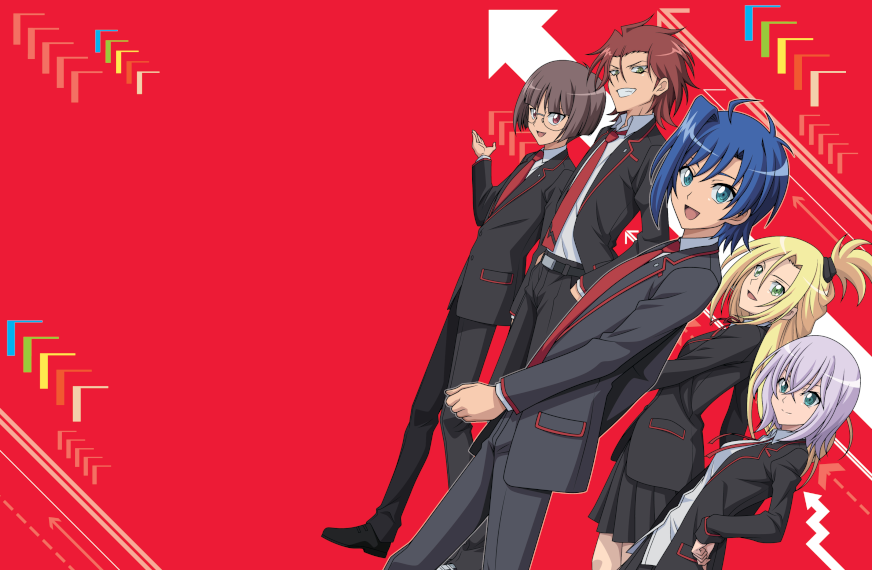
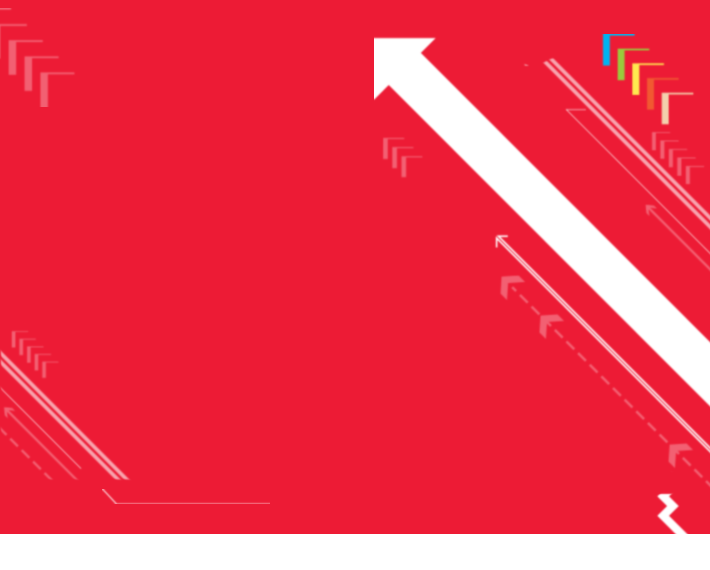
change start menu

diff --git a/src/states/Start.js b/src/states/Start.js
@@ -17,9 +17,11 @@ export default class extends Phaser.State {
 
 	create() {
 		this.geted = false
-		this.s_bk = this.add.sprite(this.game.world.centerX - 50, 0, 'start_bk')
+		this.s_bk = this.add.sprite(this.game.world.centerX, -10, 'start_bk')
 		this.s_bk.anchor.x = 0.5
-		//this.add.sprite(500, 50, 'chars')
+		this.add.sprite(250, 30, 'chars')
+		this.logo = this.add.sprite(330, 70, 'logo')
+		this.logo.anchor.setTo(0.5)
 		this.game.clickAudio = this.add.audio('click')
 
 		this.tutors = this.add.group()
@@ -69,26 +71,22 @@ export default class extends Phaser.State {
 			}
 		})
 
-		this.foot_style = {font: '14px levenim-bd', fill: '#000', align: "center", stroke: '#fff', strokeThickness: 2}
-		this.foot_text = this.add.text(210, 490,
-			'©bushiroad All Rights Reserved',
+		this.foot_style = {font: '9px levenim-bd', fill: '#000', align: "right", boundsAlignH: 'right'}
+		this.foot_text = this.add.text(720, 525,
+			'©bushiroad All Rights Reserved\n©Project Vanguard2018',
 			this.foot_style
 		)
+		this.foot_text.lineSpacing = -5
 
-		this.add.text(230, 510,
-			'©Project Vanguard2018',
-			this.foot_style
-		)
-
-		this.tap_text = this.add.text(190, 530,
+		this.tap_text = this.add.text(210, 530,
 			'Tap here to view our privacy message',
-			this.foot_style
+			{font: 'bold 10px Arial', fill: '#f00', align: 'center'}
 		)
-		this.underline = this.add.graphics(this.tap_text.left, this.tap_text.bottom - 5)
-		this.underline.lineStyle(1, 0xffffff)
-		this.underline.beginFill(0x000)
+		//this.underline = this.add.graphics(this.tap_text.left, this.tap_text.bottom - 5)
+		//this.underline.lineStyle(1, 0xffffff)
+		//this.underline.beginFill(0x000)
 		// Location to start drawing the line (x, y)
-		this.underline.drawRect(0, 0, this.tap_text.width, 3)
+		//this.underline.drawRect(0, 0, this.tap_text.width, 3)
 		this.tap_text.inputEnabled = true;
 		this.tap_text.events.onInputDown.add( () => {
 			window.open("https://en.bushiroad.com/privacy/", "_blank")

diff --git a/src/states/Splash.js b/src/states/Splash.js
@@ -25,7 +25,8 @@ export default class extends Phaser.State {
     this.load.image('s_bk', 'assets/images/start/s_bk.png')
 
     //Start scene
-    //this.load.image('chars', 'assets/images/start/character.png')
+    this.load.image('logo', 'assets/images/start/logo.png')
+    this.load.image('chars', 'assets/images/start/character.png')
     this.load.image('start_bk', 'assets/images/start/start_bk.png')
     this.load.image('overlay', 'assets/images/start/overlay.png')
     this.load.image('bd', 'assets/images/start/bd.png')
